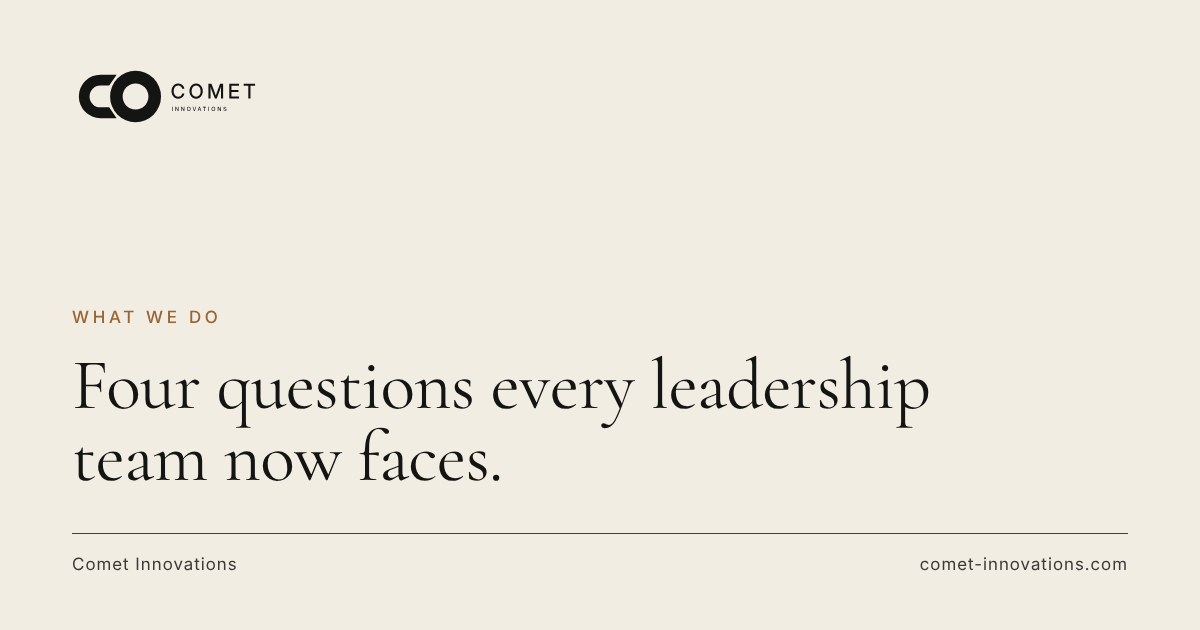
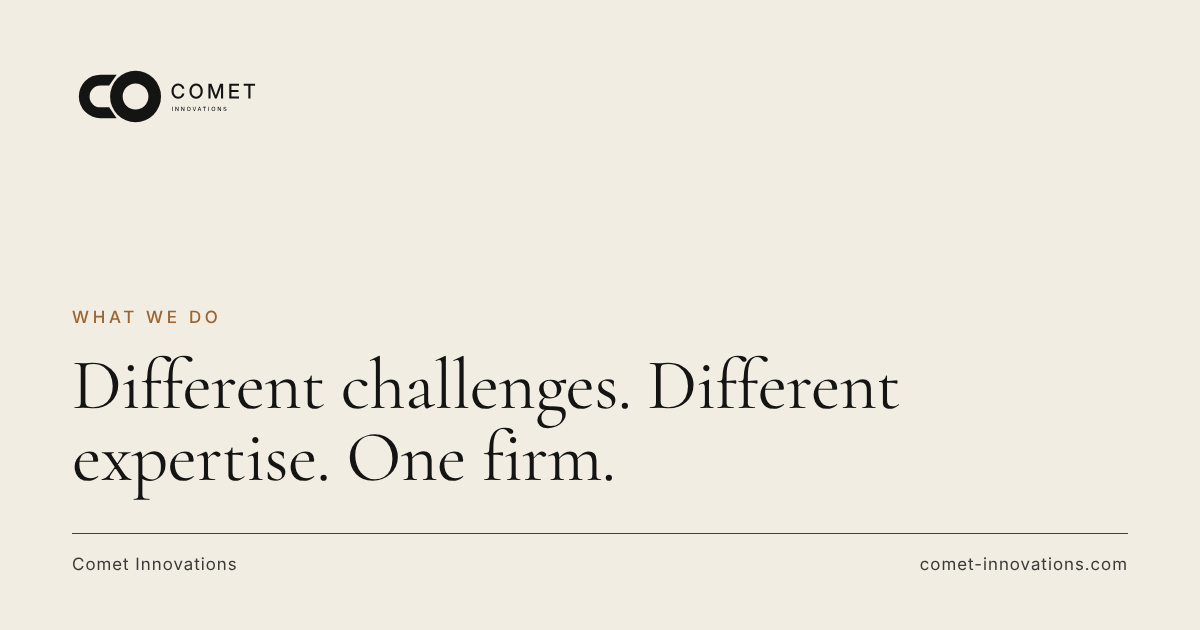
Replace What We Do with the revised three-service copy
- New hero, Advise, Educate and Engineer sections, the Four Fundamentals
  as a common perspective rather than engagement stages, Venture building
  and the "Engage us where you need us" close.
- Each service section carries the anchor the navigation links to; the
  framework section keeps #four-fundamentals and the ownership notice.
- Updated description, share image and tests.

Claude-Session: https://claude.ai/code/session_01S63pzjcwrUnhiZ14qCX8BA

Changed region(s): [[0.0617, 0.5429, 0.7708, 0.7841]]

diff --git a/src/pages/what-we-do.html b/src/pages/what-we-do.html
@@ -1,24 +1,68 @@
-<!--meta {"title": "AI Transformation Strategy & Services | Comet Innovations", "description": "Explore Comet's approach to AI transformation across value creation, work redesign, operating models and venture building.", "heading": "What We Do", "breadcrumb": "What We Do", "intent": {"primary": "AI transformation strategy", "secondary": ["AI strategy consulting", "enterprise AI transformation", "AI business transformation"]}, "ogImage": "/images/og/what-we-do.png", "updated": "2026-10-16", "schema": ["term"], "terms": [{"id": "four-fundamentals", "name": "The Four Fundamentals", "description": "The Four Fundamentals is Comet’s framework for examining where AI changes four core dimensions of a business: value, work, organisation and growth."}]} -->
+<!--meta {"title": "AI Transformation Strategy & Services | Comet Innovations", "description": "Three independent services for the AI economy: strategic AI advisory, executive education and forward-deployed AI engineering, plus corporate venture building.", "heading": "What We Do", "breadcrumb": "What We Do", "intent": {"primary": "AI transformation strategy", "secondary": ["AI strategy consulting", "AI executive education", "forward-deployed AI engineering", "enterprise AI transformation"]}, "ogImage": "/images/og/what-we-do.png", "updated": "2026-10-25", "schema": ["term"], "terms": [{"id": "four-fundamentals", "name": "The Four Fundamentals", "description": "The Four Fundamentals is Comet’s framework for examining where AI changes four core dimensions of a business: value, work, organisation and growth."}]} -->
 <section class="page-hero"><div class="shell">
 <p class="eyebrow">What we do</p>
-<h1>Four questions every leadership team now faces.</h1>
-<p>AI is changing how organisations create value, how work gets done, how businesses operate and where future growth comes from. We help leadership teams answer those questions and act on the answers.</p>
-<p>Comet Innovations helps established organisations determine where AI changes four fundamentals of their business: value, work, organisation and growth.</p>
+<h1>Different challenges. Different expertise. One firm.</h1>
+<p class="hero-tagline">Three independent services for organisations navigating the AI economy.</p>
+<p>Comet brings together strategic advisory, executive education and forward-deployed engineering.</p>
+<p>Each service addresses a distinct client need and can be commissioned independently.</p>
+<p>Some engagements require strategic judgment. Others require leadership development. Others require engineers capable of building working systems in complex operating environments.</p>
+<p>We work in the form that best serves the objective.</p>
 </div></section>
-<section class="section" id="four-fundamentals"><div class="shell intro-grid"><div><h2 class="eyebrow">The Four Fundamentals</h2></div><div class="copy"><p class="lead">A business framework for an AI economy.</p>
-<p class="definition"><dfn>The Four Fundamentals</dfn> is Comet’s framework for examining where AI changes four core dimensions of a business: value, work, organisation and growth.</p>
-<p>Technology changes quickly. The fundamental questions of business do not. Every organisation still has to create value, organise work, operate effectively and grow. AI is altering the economics of each.</p>
-<p><a class="link" href="/insights/the-four-fundamentals">Read the framework in depth</a></p></div></div></section>
-<section class="section tight"><div class="shell fund-grid">
-<div class="fund-row reveal"><svg class="glyph" aria-hidden="true"><use href="images/icons.svg#shen"/></svg><div><p class="eyebrow">Value</p><h3>How do you make money?</h3></div><p>Customer value. Propositions. Pricing. Revenue. Margin.</p><a class="link" href="value-creation.html">Explore value creation</a></div>
-<div class="fund-row reveal"><svg class="glyph" aria-hidden="true"><use href="images/icons.svg#akhet"/></svg><div><p class="eyebrow">Work</p><h3>How do people work?</h3></div><p>Workflows. Roles. Automation. Agents. Skills.</p><a class="link" href="work-redesign.html">Explore work redesign</a></div>
-<div class="fund-row reveal"><svg class="glyph" aria-hidden="true"><use href="images/icons.svg#columns"/></svg><div><p class="eyebrow">Organisation</p><h3>How does the organisation run?</h3></div><p>Structure. Decision rights. Governance. Investment. Capability.</p><a class="link" href="operating-model.html">Explore operating model</a></div>
-<div class="fund-row reveal"><svg class="glyph" aria-hidden="true"><use href="images/icons.svg#switch"/></svg><div><p class="eyebrow">Growth</p><h3>How do you grow?</h3></div><p>Markets. Products. Services. Ventures.</p><a class="link" href="venture-building.html">Explore venture building</a></div>
-</div><div class="shell">{{> framework-notice}}</div></section>
-<section class="section dark"><div class="shell"><h2 class="eyebrow">How we work</h2><div class="cards3">
-<article class="card reveal" id="advise"><p class="meta">Advise</p><h3>Senior led strategy, design and decision support.</h3><p>Understand the question, make the choices and define what needs to happen next.</p></article>
-<article class="card reveal" id="educate"><p class="meta">Educate</p><h3>Build the capability to keep moving.</h3><p>Practical understanding and institutional capability for boards, executives and teams.</p></article>
-<article class="card reveal" id="engineer"><p class="meta">Engineer</p><h3>Turn decisions into working systems.</h3><p>Prototype, integrate and deploy AI solutions alongside client teams and specialist delivery partners.</p></article>
-</div></div></section>
-<section class="section section-ruled" aria-labelledby="related-title"><div class="shell split"><div><h2 class="eyebrow" id="related-title">Continue exploring</h2></div><ul class="related-list"><li><a href="/insights/the-four-fundamentals"><span class="eyebrow">Insight</span><span class="related-list-title">The Four Fundamentals</span><span class="related-list-note">The framework in depth.</span></a></li><li><a href="/insights/where-is-ai-changing-your-economics"><span class="eyebrow">Insight</span><span class="related-list-title">Where Is AI Changing Your Economics?</span></a></li><li><a href="/our-work"><span class="eyebrow">Selected work</span><span class="related-list-title">Strategy only matters when something changes</span></a></li></ul></div></section>
-<section class="close"><div class="shell"><p class="eyebrow">Where to start</p><h2>Start with the business, not the technology.</h2><p>The Fundamentals Diagnostic provides a structured view of where AI materially changes your business and where action is most valuable.</p><a class="nav-cta" href="diagnostic.html">Explore the Diagnostic</a></div></section>
+
+<section class="section section-ruled service-section" id="advise" aria-labelledby="advise-title"><div class="shell split">
+<div><p class="eyebrow">01</p><h2 class="section-title" id="advise-title">Advise</h2></div>
+<div class="copy">
+<h3 class="lead">Better decisions in a changing economic landscape.</h3>
+<p>Artificial intelligence is challenging established assumptions about competitive advantage, productivity, organisational structure and business growth.</p>
+<p>We help boards and leadership teams understand those changes, evaluate strategic options and make decisions grounded in business economics.</p>
+<p>Our advisory work spans AI strategy, business model transformation, operating model design, investment prioritisation and corporate venture building.</p>
+<p>Engagements range from focused strategic assessments to ongoing executive advisory mandates.</p>
+</div>
+</div></section>
+
+<section class="section section-ruled service-section" id="educate" aria-labelledby="educate-title"><div class="shell split">
+<div><p class="eyebrow">02</p><h2 class="section-title" id="educate-title">Educate</h2></div>
+<div class="copy">
+<h3 class="lead">Leadership capability for an AI-shaped future.</h3>
+<p>AI is changing the information available to executives, the speed at which options can be explored and the nature of decisions leaders must make.</p>
+<p>Our executive education programmes help leadership teams develop the understanding and judgment required to navigate these changes.</p>
+<p>We combine strategic perspectives, practical applications, facilitated discussion and real business challenges.</p>
+<p>Programmes are designed for boards, executive committees, senior management teams and leadership academies.</p>
+</div>
+</div></section>
+
+<section class="section section-ruled service-section" id="engineer" aria-labelledby="engineer-title"><div class="shell split">
+<div><p class="eyebrow">03</p><h2 class="section-title" id="engineer-title">Engineer</h2></div>
+<div class="copy">
+<h3 class="lead">Forward-deployed engineering for real operational challenges.</h3>
+<p>AI produces value when it becomes part of how a business works.</p>
+<p>Our engineering service brings technical expertise directly into the client’s operational environment to design, build, integrate and deploy AI capabilities.</p>
+<p>We focus on business workflows, enterprise systems, AI agents and AI-enabled products.</p>
+<p>Engagements are defined around technical requirements, delivery milestones and operational readiness, with specialist resources assembled according to the problem.</p>
+</div>
+</div></section>
+
+<section class="section dark" id="four-fundamentals" aria-labelledby="fundamentals-title"><div class="shell split">
+<div><h2 class="eyebrow" id="fundamentals-title">A common strategic perspective.</h2><h3 class="section-title">The Four Fundamentals</h3></div>
+<div class="copy">
+<p class="lead">Across our work, we examine how AI changes value, work, organisation and growth.</p>
+<p>These four dimensions provide a strategic perspective for understanding the implications of AI.</p>
+<p>They inform our advisory thinking, provide context for executive learning and help connect engineering decisions to business outcomes.</p>
+<p>They are not mandatory stages of an engagement.</p>
+<p class="after-list"><a class="btn" href="/insights/the-four-fundamentals">Explore the Framework</a></p>
+{{> framework-notice}}
+</div>
+</div></section>
+
+<section class="section" id="venture-building" aria-labelledby="venture-title"><div class="shell split">
+<div><h2 class="eyebrow" id="venture-title">Venture building</h2><h3 class="section-title">Creating what comes next.</h3></div>
+<div class="copy">
+<p class="lead">AI is changing the cost, speed and capability required to build new businesses.</p>
+<p>We work with organisations exploring new products, services, business models and ventures made possible by those changes.</p>
+<p>Our work may involve opportunity assessment and venture strategy through <a href="#advise">Advise</a>, or the development of working products and technical capabilities through <a href="#engineer">Engineer</a>.</p>
+<p>The nature of the engagement depends on the maturity of the opportunity and the expertise required.</p>
+<p class="after-list"><a class="nav-cta" href="venture-building.html">Explore Venture Building</a></p>
+</div>
+</div></section>
+
+<section class="close"><div class="shell"><h2>Engage us where you need us.</h2><p>Independent advice. A tailored executive programme. A dedicated engineering engagement.</p><p>Each is a complete offering in its own right.</p><div class="hero-actions"><a class="nav-cta" href="contact.html">Discuss Your Requirements</a></div></div></section>

diff --git a/test/site.test.js b/test/site.test.js
@@ -84,6 +84,26 @@ test('the home page uses the revised copy: three services, three markets, one fr
   assert.doesNotMatch(home, /<details>/, 'FAQ is not duplicated on the home page');
 });
 
+test('What We Do presents three independent services, the framework and venture building', () => {
+  const page = text('what-we-do.html');
+  for (const line of [
+    'Different challenges. Different expertise. One firm.',
+    'Three independent services for organisations navigating the AI economy.',
+    'Each service addresses a distinct client need and can be commissioned independently.',
+    'Better decisions in a changing economic landscape.',
+    'Leadership capability for an AI-shaped future.',
+    'Forward-deployed engineering for real operational challenges.',
+    'They are not mandatory stages of an engagement.',
+    'Creating what comes next.',
+    'Engage us where you need us.',
+    'Discuss Your Requirements',
+  ]) assert.ok(page.includes(line), line);
+  const doc = html('what-we-do.html');
+  for (const id of ['advise', 'educate', 'engineer', 'four-fundamentals', 'venture-building']) assert.match(doc, new RegExp(`<section[^>]*id="${id}"`), id);
+  assert.match(doc, /href="\/insights\/the-four-fundamentals"[^>]*>Explore the Framework/);
+  assert.match(doc, /href="\/venture-building"[^>]*>Explore Venture Building/);
+});
+
 test('positioning is intact: fundamentals, pillars, delivery modes, Diagnostic and R&D', () => {
   const all = pages.map(text).join(' ');
   for (const term of ['Value', 'Work', 'Organisation', 'Growth', 'Value creation', 'Work redesign', 'Operating model', 'Venture building', 'Advise', 'Educate', 'Engineer', 'Fundamentals Diagnostic']) {
@@ -423,9 +443,8 @@ test('IndexNow manifest fingerprints every indexable URL', () => {
 
 test('key concepts are defined in visible HTML, consistently', () => {
   const ff = 'The Four Fundamentals is Comet’s framework for examining where AI changes four core dimensions of a business: value, work, organisation and growth.';
-  assert.ok(text('what-we-do.html').includes(ff));
   assert.ok(text('insights/the-four-fundamentals.html').includes(ff));
-  assert.ok(text('what-we-do.html').includes('Comet Innovations helps established organisations determine where AI changes four fundamentals of their business: value, work, organisation and growth.'));
+  assert.ok(text('what-we-do.html').includes('Across our work, we examine how AI changes value, work, organisation and growth.'));
   assert.ok(text('diagnostic.html').includes('The Fundamentals Diagnostic is a four-to-six-week assessment identifying where AI materially changes a company’s economics and which opportunities should be prioritised.'));
   assert.ok(text('diagnostic.html').includes('not a downloadable maturity test'));
   assert.ok(text('venture-building.html').includes('Corporate venture building is the disciplined process of identifying, validating, building and launching new businesses using the assets and advantages of an established organisation.'));

diff --git a/public/styles.css b/public/styles.css
@@ -504,6 +504,11 @@ dfn{font-style:normal;font-weight:600}
 .dark .copy a{color:var(--chalk)}
 .dark .copy p{color:var(--on-dark)}
 .hero-tagline span{display:inline-block;margin-right:.6em}
+.copy p.framework-notice{font-size:13px}
+.dark .framework-notice,.dark .copy p.framework-notice{color:var(--on-dark-muted)}
+.dark .copy p.lead{color:var(--chalk)}
+.close p+p{margin-top:12px}
+.page-hero .hero-tagline{font-size:13px;max-width:760px;margin:8px 0 28px}
 
 /* Case studies */
 .case-studies{border-top:1px solid var(--line-strong)}
